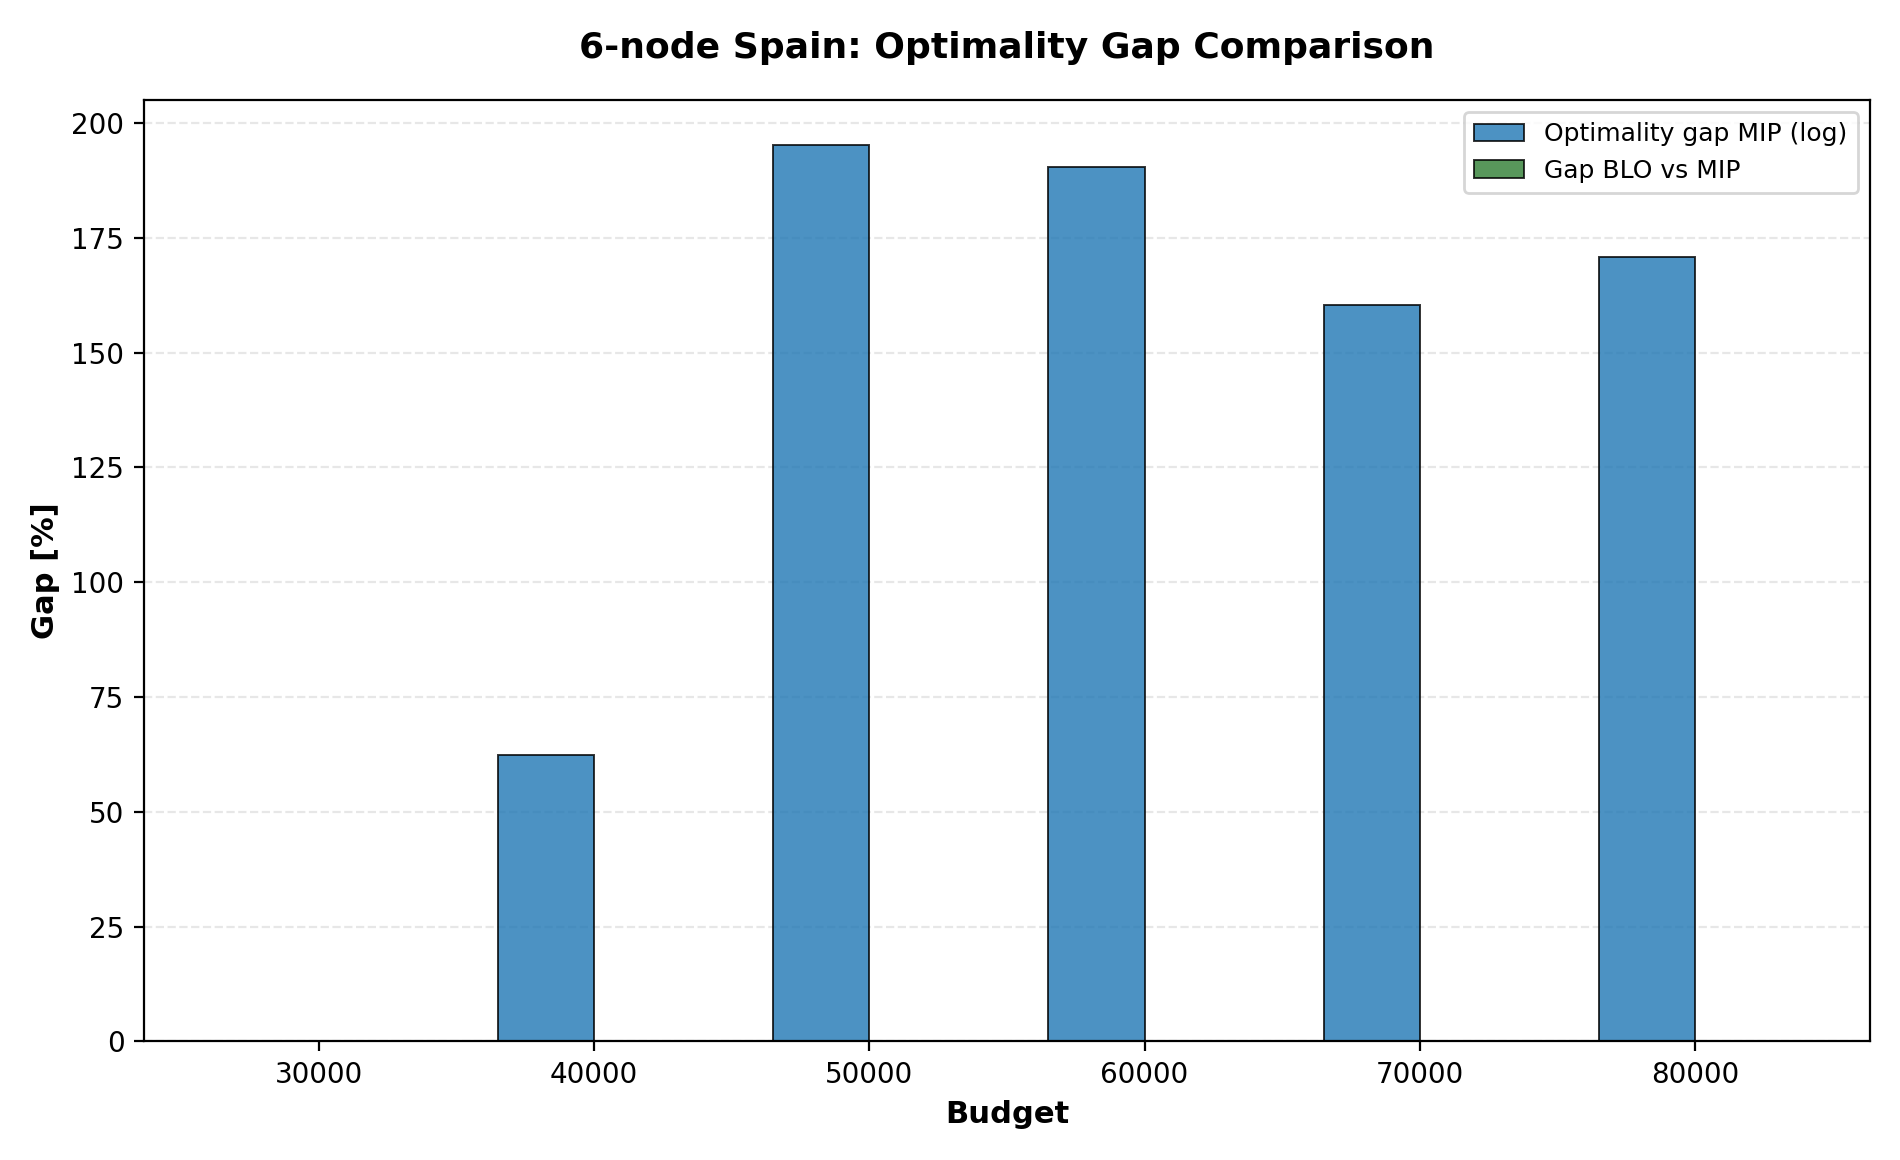
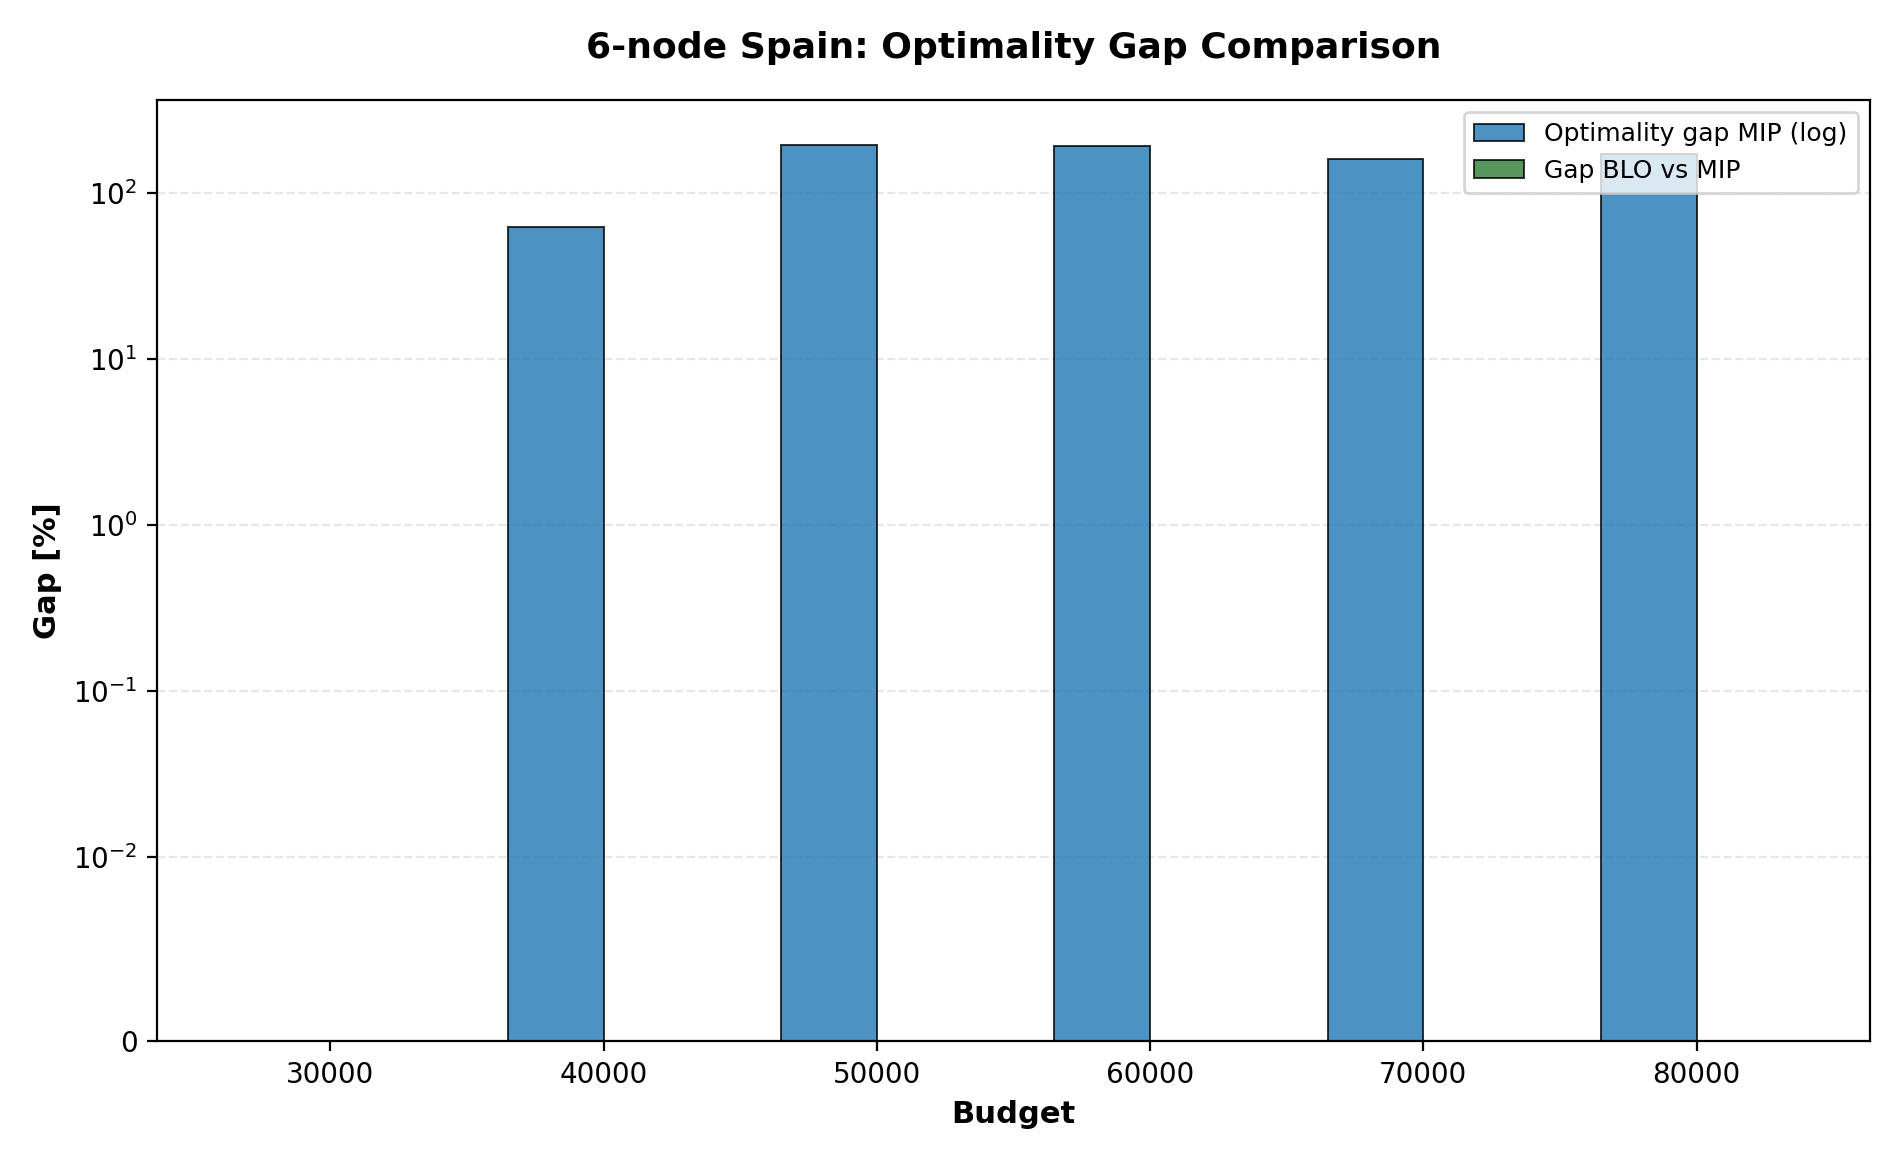
Apply symlog scale with linthresh=0.01 to gap comparison plots Y-axis in 4, 6, and 8node_spain

diff --git a/4node_spain/compare_results.py b/4node_spain/compare_results.py
@@ -223,9 +223,10 @@ def plot_results(results, output_path):
 
     ax.set_xlabel("Budget", fontsize=11, fontweight="bold")
     ax.set_ylabel("Gap [%]", fontsize=11, fontweight="bold")
+    ax.set_yscale("symlog", linthresh=0.01)
     ax.set_title("4-node Spain: Optimality Gap Comparison", fontsize=13, fontweight="bold", pad=15)
     ax.set_xticks(budgets)
-    ax.grid(True, which="major", axis="y", linestyle="--", alpha=0.3)
+    ax.grid(True, which="both", axis="y", linestyle="--", alpha=0.3)
     ax.set_axisbelow(True)
     ax.legend(loc="upper right", fontsize=9)
 

diff --git a/6node_spain/compare_results.py b/6node_spain/compare_results.py
@@ -225,9 +225,10 @@ def plot_results(results, output_path):
 
     ax.set_xlabel("Budget", fontsize=11, fontweight="bold")
     ax.set_ylabel("Gap [%]", fontsize=11, fontweight="bold")
+    ax.set_yscale("symlog", linthresh=0.01)
     ax.set_title("6-node Spain: Optimality Gap Comparison", fontsize=13, fontweight="bold", pad=15)
     ax.set_xticks(budgets)
-    ax.grid(True, which="major", axis="y", linestyle="--", alpha=0.3)
+    ax.grid(True, which="both", axis="y", linestyle="--", alpha=0.3)
     ax.set_axisbelow(True)
     ax.legend(loc="upper right", fontsize=9)
 

diff --git a/8node_spain/compare_results.py b/8node_spain/compare_results.py
@@ -181,9 +181,10 @@ def plot_results(results, output_path):
 
     ax.set_xlabel("Budget", fontsize=11, fontweight="bold")
     ax.set_ylabel("Gap [%]", fontsize=11, fontweight="bold")
+    ax.set_yscale("symlog", linthresh=0.01)
     ax.set_title("8-node Spain: Optimality Gap Comparison", fontsize=13, fontweight="bold", pad=15)
     ax.set_xticks(budgets)
-    ax.grid(True, which="major", axis="y", linestyle="--", alpha=0.3)
+    ax.grid(True, which="both", axis="y", linestyle="--", alpha=0.3)
     ax.set_axisbelow(True)
     ax.legend(loc="upper right", fontsize=9)
 